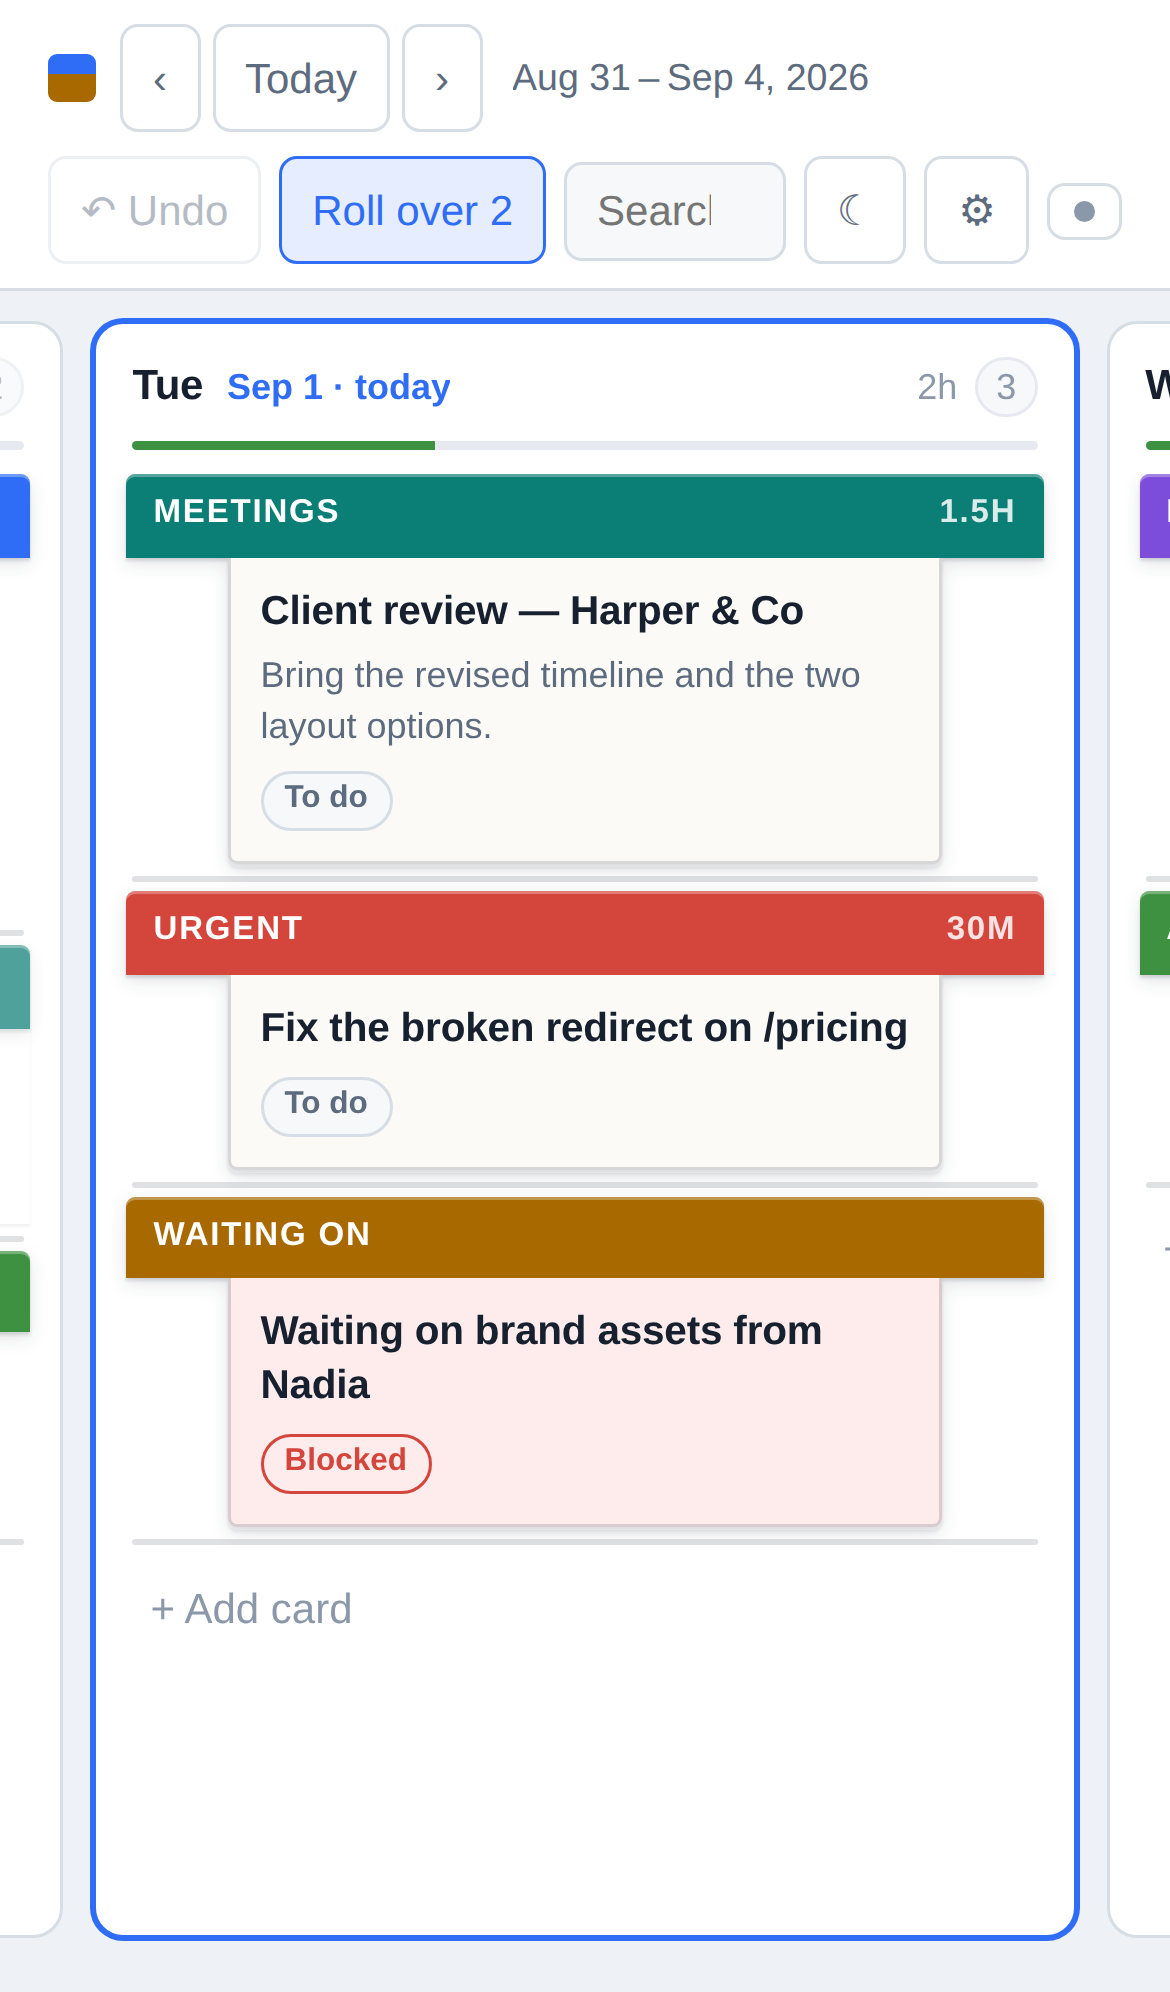
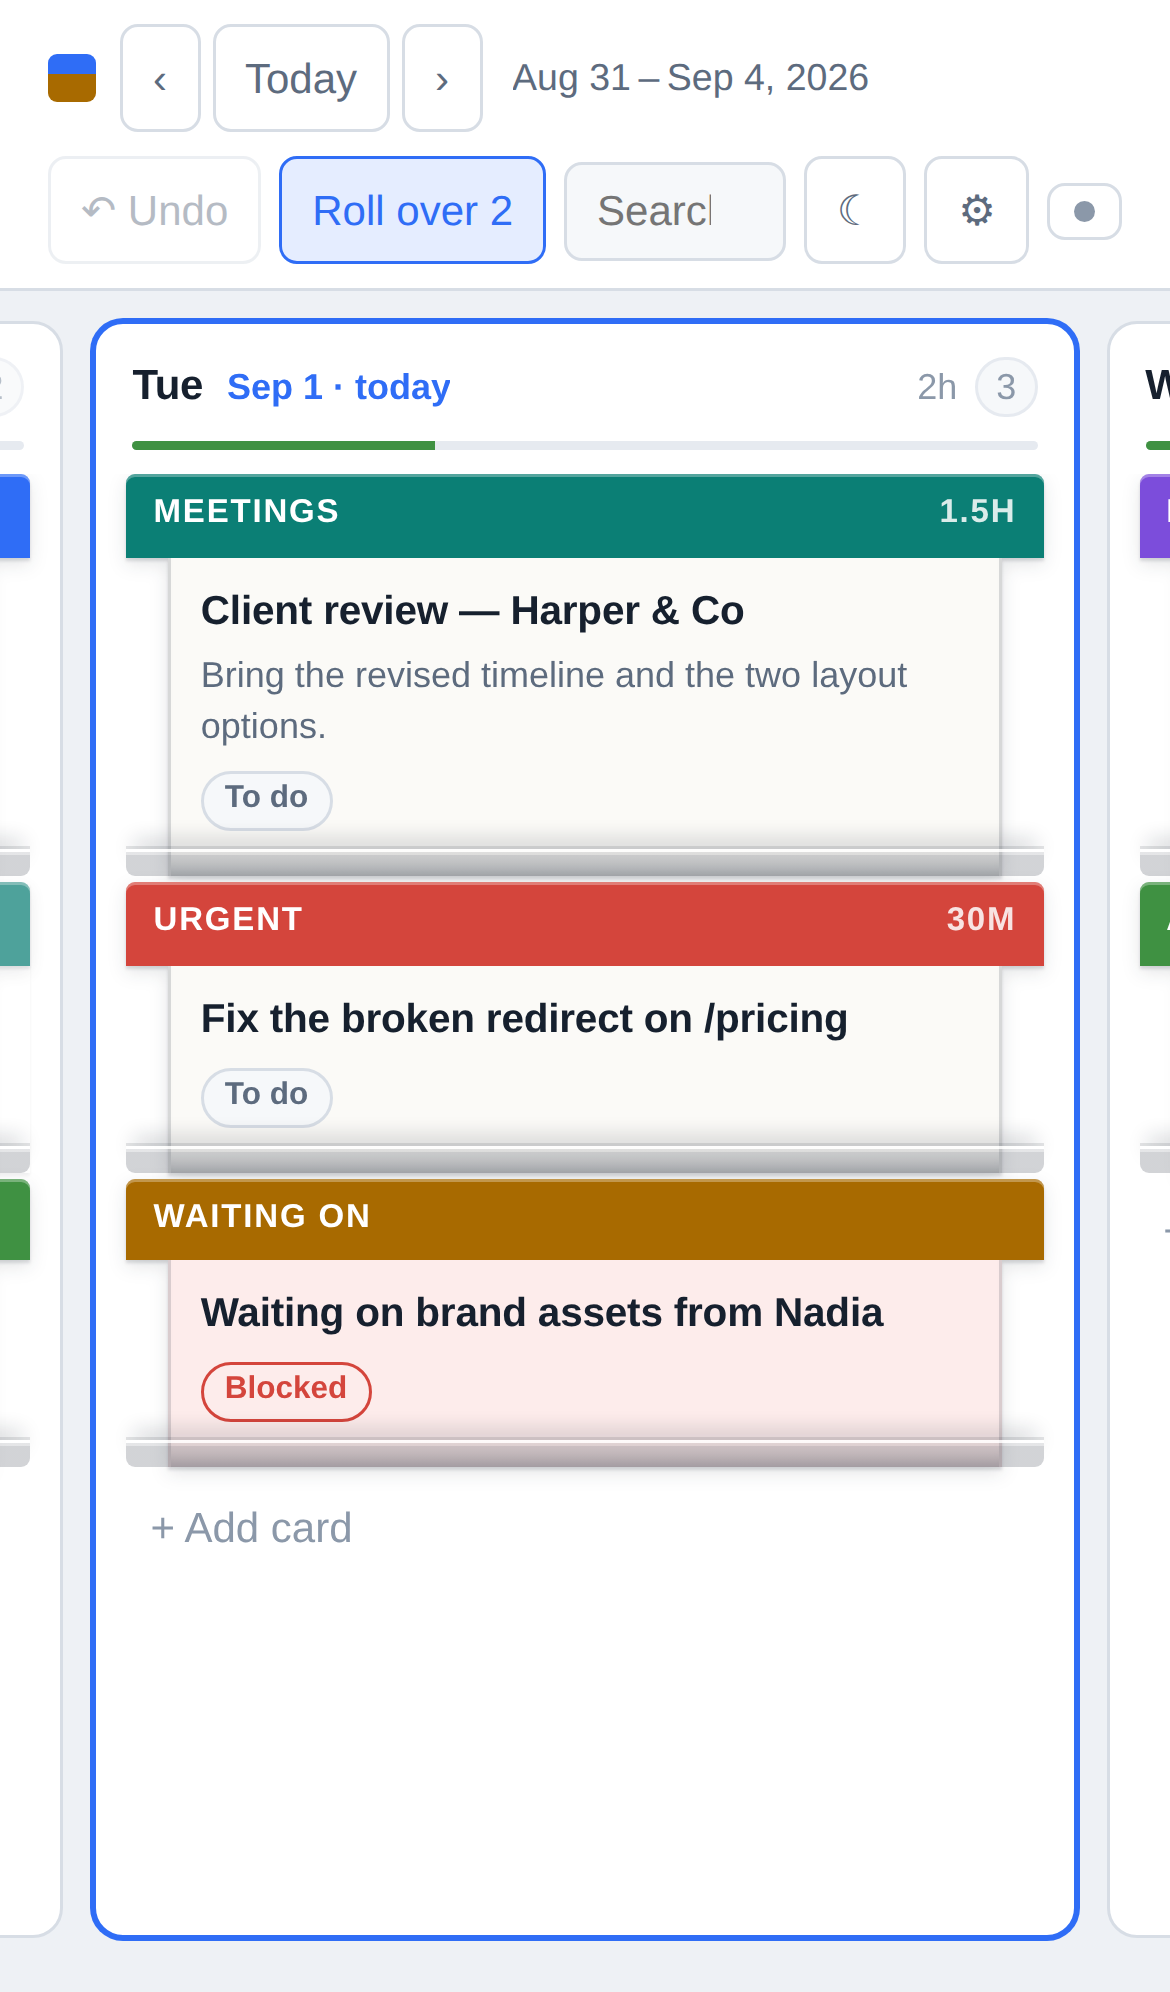
Widen the stem, and slot the cards into pockets
The stem was drawn in 11% each side, so a third of the card's width was
board showing through — most of it either side of the text you actually
read. It's 4.5% now. The shoulders still step in, which is the whole of what
makes the shape a T, but the reading area gets the width back.

The card also stopped in mid-air above a thin rail. Now it runs down behind
the lip instead:

- The lip is full width like the head, drawn over the foot of the card, with
  a line of light along its top edge and a bevel under it. It's painted
  after the card in the slot's tree, which is what puts it in front without
  a z-index.
- The stem loses its bottom border and its bottom rounding — the card
  doesn't end there, it carries on into the pocket — and gains an inset
  shadow so the stock loses the light as it goes down. Without that the lip
  reads as a bar laid across the card rather than something the card is
  behind; it's most of the effect.
- A card in the hand gets its foot back: the drag overlay restores the
  bottom edge and drops the pocket shading, so a lifted card is a whole card
  rather than one cut off at the ankles.

Dark theme's lip comes back a little from the near-black it would otherwise
be, with more light on its top edge, because a black band on a dark board is
a hole rather than a shelf.

Claude-Session: https://claude.ai/code/session_01MDNMZqyp5mzas64dEEcKLP

diff --git a/src/styles.css b/src/styles.css
@@ -24,7 +24,13 @@
   --card-line: rgba(16, 24, 40, 0.15);
   --card-edge: rgba(16, 24, 40, 0.16);
   --card-sheen: rgba(255, 255, 255, 0.3);
-  --rail: rgba(16, 24, 40, 0.13);
+  /* The pocket lip the card drops behind: its face, the light along its top
+     edge, the bevel under that light, and the shade it throws back up the
+     card. */
+  --rail: rgba(16, 24, 40, 0.19);
+  --rail-lip: rgba(255, 255, 255, 0.75);
+  --rail-edge: rgba(16, 24, 40, 0.11);
+  --rail-shade: rgba(16, 24, 40, 0.32);
 
   /* Status and warning colours. These are the app's own, fixed: the category
      palette next door is yours to change, and a "Blocked" pill that turned
@@ -61,7 +67,10 @@
   --card-line: rgba(255, 255, 255, 0.1);
   --card-edge: rgba(0, 0, 0, 0.5);
   --card-sheen: rgba(255, 255, 255, 0.07);
-  --rail: rgba(0, 0, 0, 0.42);
+  --rail: rgba(0, 0, 0, 0.36);
+  --rail-lip: rgba(255, 255, 255, 0.14);
+  --rail-edge: rgba(0, 0, 0, 0.5);
+  --rail-shade: rgba(0, 0, 0, 0.5);
 
   --s-todo: #8b9ab0;
   --s-doing: #5b8cff;    --s-doing-tint: #1b2740;
@@ -257,25 +266,29 @@ button, input, select, textarea { font: inherit; color: inherit; }
   -webkit-touch-callout: none;
   -webkit-user-select: none;
   user-select: none;
-  /* Room beneath each card for the rail it sits in. */
   position: relative;
-  padding-bottom: 7px;
 }
 .tcard-slot:active { cursor: grabbing; }
 .tcard-slot:focus-visible { outline: 2px solid var(--accent); outline-offset: 2px; border-radius: 3px; }
 
-/* The pocket lip the card is slotted into. A column of these reads as a rack
-   rather than a list, which is most of what makes a board look like a board. */
+/* The pocket lip the card is slotted into: full width like the head, and drawn
+   over the bottom of the card, so the stem runs down behind it and out of
+   sight rather than stopping in mid-air. The card is in the rack, not on it.
+
+   Painted last of the slot's children, which is what puts it in front of the
+   card without a z-index. */
 .tcard-slot::after {
   content: '';
   position: absolute;
-  left: 2px;
-  right: 2px;
-  bottom: 1px;
-  height: 2px;
-  border-radius: 1px;
-  background: var(--rail);
-  box-shadow: 0 1px 0 var(--card-sheen);
+  left: 0;
+  right: 0;
+  bottom: 0;
+  height: 9px;
+  border-radius: 0 0 3px 3px;
+  /* A line of light along the top, the bevel just under it, then the face. */
+  background: linear-gradient(180deg, var(--rail-lip) 0 1px, var(--rail-edge) 1px 2px, var(--rail) 2px);
+  /* Where the card meets the lip, and the shade the lip throws back up it. */
+  box-shadow: 0 -1px 0 var(--rail-edge), 0 -5px 7px -3px var(--rail-shade);
 }
 /* A T-card is one piece of stock cut to a T: a full-width coloured head with
    the category on it, and a narrower stem hanging below carrying the detail.
@@ -296,9 +309,11 @@ button, input, select, textarea { font: inherit; color: inherit; }
      Mixed into the card stock rather than the lane behind it: the stem is
      paper, and a tint that ignored that would read as a hole in the card. */
   --c-tint: color-mix(in srgb, var(--c) 13%, var(--card-paper));
-  /* How far the stem is drawn in on each side. A percentage, so the shape
-     holds from a phone column to a wide one. */
-  --stem: 11%;
+  /* How far the stem is drawn in on each side. Enough to read as a T — the
+     shoulders are what makes the shape — but no more, because the stem is
+     where everything you actually read lives. A percentage, so it holds from
+     a phone column to a wide one. */
+  --stem: 4.5%;
   filter:
     drop-shadow(0 1px 0.5px rgba(16, 24, 40, 0.13))
     drop-shadow(0 2px 3px rgba(16, 24, 40, 0.11));
@@ -316,6 +331,15 @@ button, input, select, textarea { font: inherit; color: inherit; }
   filter: drop-shadow(0 10px 18px rgba(16, 24, 40, 0.3));
   /* Out of the rack and held at an angle, the way a lifted card actually sits. */
   transform: rotate(1.6deg) scale(1.02);
+}
+
+/* A card in the hand is out of its pocket, so it gets the foot back: the
+   bottom edge the lip was covering, and none of the shade it was throwing. */
+.tcard.is-dragging .tcard-body {
+  padding-bottom: 10px;
+  border-bottom: 1px solid var(--card-line);
+  border-radius: 0 0 3px 3px;
+  box-shadow: 0 1px 0 var(--card-sheen);
 }
 .tcard.is-dimmed { opacity: 0.32; }
 
@@ -338,19 +362,21 @@ button, input, select, textarea { font: inherit; color: inherit; }
 .tcard-cat { overflow: hidden; text-overflow: ellipsis; white-space: nowrap; }
 .tcard-est { margin-left: auto; opacity: 0.85; font-variant-numeric: tabular-nums; }
 
-/* The stem: paper, narrower than the head, hanging from it. Only the bottom
-   corners are eased — the top edge is where it meets the head. */
+/* The stem: paper, hanging from the head and running down behind the lip.
+   The extra padding at the foot is the part the lip covers. */
 .tcard-body {
   margin: 0 var(--stem);
-  padding: 9px 10px 10px;
+  padding: 9px 10px 15px;
   background: var(--card-paper);
-  /* No top edge: that is where the stem meets the head. The bottom line is the
-     thickness of the card, which is what keeps it looking like an object
-     rather than a painted rectangle. */
+  /* No top edge: that is where the stem meets the head. No bottom one either —
+     the card doesn't end there, it carries on into the pocket. */
   border: 1px solid var(--card-line);
   border-top: 0;
-  border-radius: 0 0 3px 3px;
-  box-shadow: 0 1px 0 var(--card-sheen);
+  border-bottom: 0;
+  /* The stock loses the light as it goes down into the pocket. Without this
+     the lip reads as a bar laid across the card rather than something the
+     card is behind. */
+  box-shadow: inset 0 -9px 7px -7px var(--rail-shade);
 }
 
 .tcard-title {

diff --git a/README.md b/README.md
@@ -37,9 +37,12 @@ Access session to present, every request is turned away, which is the point.
 **Backlog** column on the left for anything not yet given a day. Weekends are
 hidden until you turn them on in Settings. Today's column is outlined.
 
-**The cards.** Each card is a T-card: a coloured strip across the top naming its
-category, and the body below. Colour is the category (client work, meetings,
-admin, urgent…), and it's the thing you read the board by from across the room.
+**The cards.** Each card is a T-card: a coloured head across the top naming its
+category, and a stem below it carrying the detail. Colour is the category
+(client work, meetings, admin, urgent…), and it's the thing you read the board
+by from across the room. Cards sit in pockets down the column, each one running
+behind the lip below it, so a day reads as a rack rather than a list — pick one
+up and it comes out of its pocket with its foot showing.
 
 - **Drag** a card to another day, or up and down to reorder within a day.
   Dropping it nowhere puts it back, and `Esc` mid-drag cancels.
